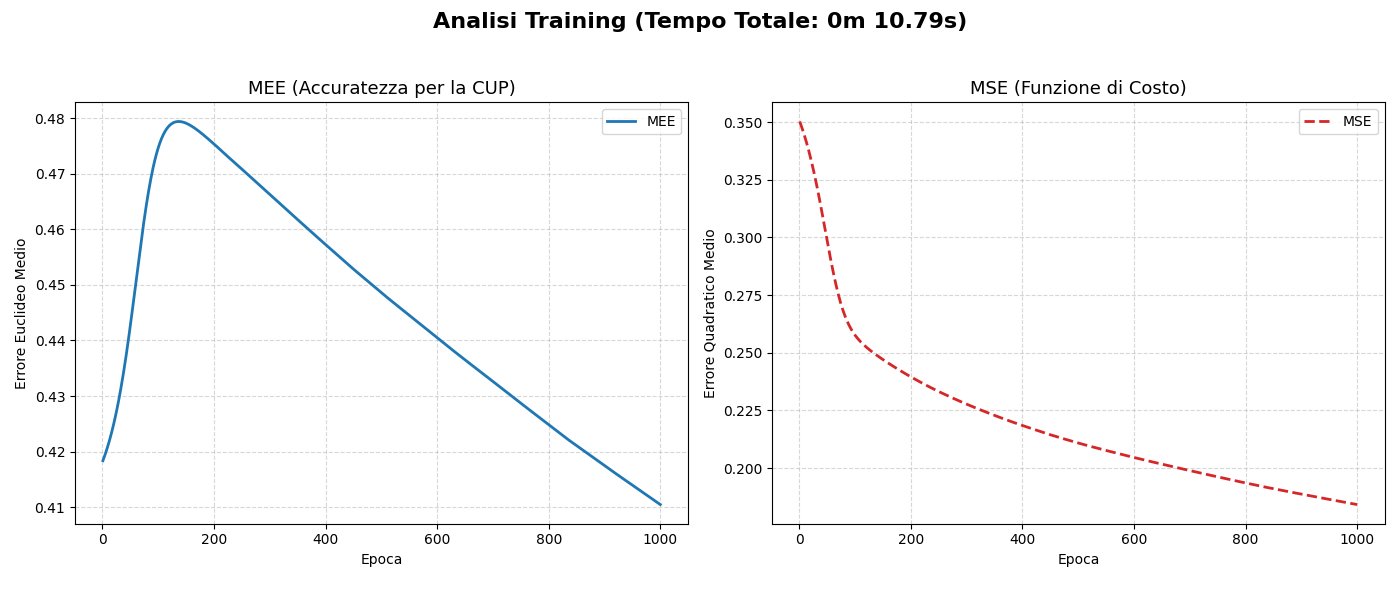
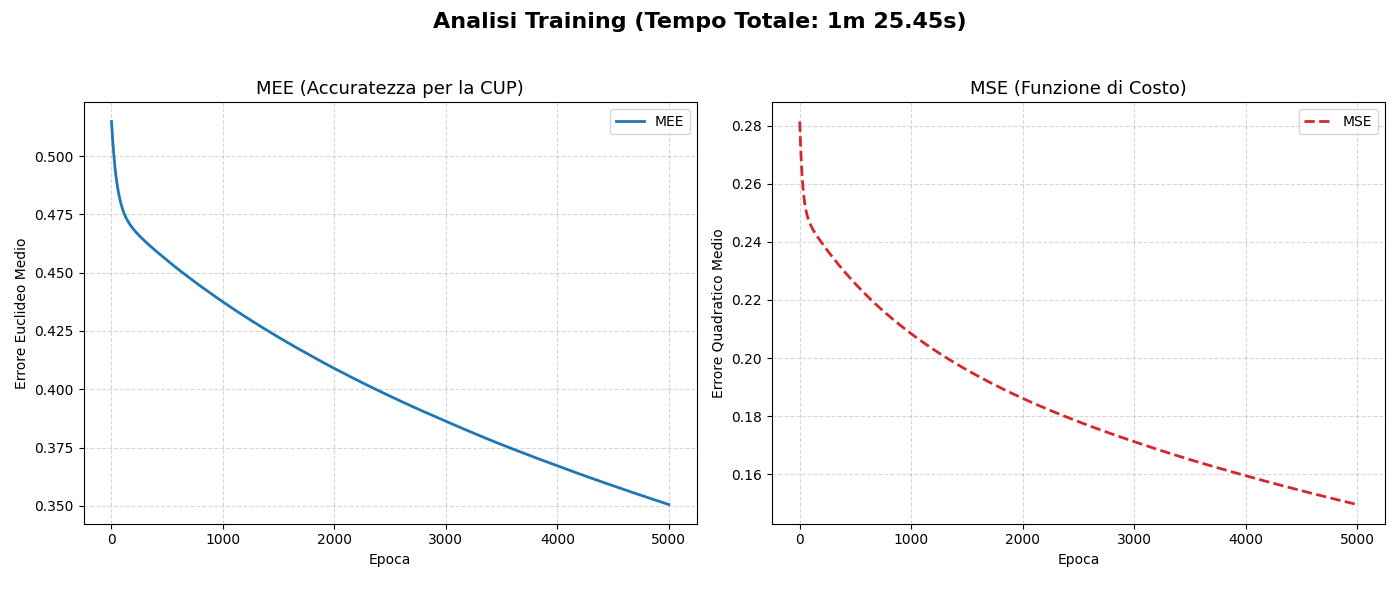
risolte alcune problematiche dell'applicazione al monk

diff --git a/config.py b/config.py
@@ -9,8 +9,8 @@ PATH_DT = "../data/training_data/monks-1.train"
 MONK= True #<- toggle per il monk
 
 # ======== UNITS SIZE ========
-N_HIDDENL1 = 16
-N_HIDDENL2 = 8
+N_HIDDENL1 = 32
+N_HIDDENL2 = 16
 
 if MONK==True:
     N_OUTPUTS = 1
@@ -23,7 +23,7 @@ FUN_ACT = leaky_relu
 
 
 # ====== LEARNING RATE ======= #<- viene usato come valore centrale per la grid search
-LEARNING_RATE =  1e-2   #<- Funziona in batch ma da applicare il criterio di stop sennò scavalca il minimo
+LEARNING_RATE = 2e-3   #<- Funziona in batch ma da applicare il criterio di stop sennò scavalca il minimo
 #LEARNING_RATE = 0.000025
 
 # ========= BATCH ============
@@ -33,14 +33,14 @@ BATCH = True
 # --------------------- STOP CRITERIA:
 
 # ======== N EPOCHS ==========
-EPOCHS = 1000 #usato anche per determinare il numero di epoche per ogni run di grid search, 3% epochs ogni run
+EPOCHS = 5000 #usato anche per determinare il numero di epoche per ogni run di grid search, 3% epochs ogni run
 # ======== Early Stopping oon/off =============
 EARLY_STOPPING = True
 # gradient_norm < EPSILON, quindi il gradiente non cresce abbastanza,
 # serve per lo stopping criteria come limite inferiore, in percentuale
 # ======== EPSILON ==========
 #EPSILON = 0.001
-EPSILON = 0.0000001
+EPSILON = 0.00000001
 
 # Dopo quante epoche in cui non cresce il gradiente mi fermo
 # ======= PATIENCE ==========

diff --git a/scripts/Ensemble_learning.py b/scripts/Ensemble_learning.py
@@ -4,7 +4,7 @@ from src.utils.load_data import load_data, load_monks_data
 from scripts.run_validation import *
 import copy
 best_model = None
-best_accuracy = float("inf")
+best_accuracy = 0.0
 if config.MONK:
     x_i, d = load_monks_data(config.PATH_DT)
 else:
@@ -64,7 +64,7 @@ for seed in range(10):
     w_j1i, w_j2j1, w_kj2, architecture = load_model(weights_filename, architecture_filename)
     correctly_classified, misclassified=validation_monk(validation_set, validation_d, w_j1i, w_j2j1, w_kj2)
     accuracy=correctly_classified/(correctly_classified + misclassified)
-    if accuracy < best_accuracy:
+    if accuracy >best_accuracy:
         best_accuracy = accuracy
         best_model = copy.deepcopy(trainer)
-    print("miglior accuratezza raggiunta:",best_accuracy*100,"%")
+print("miglior accuratezza raggiunta:",best_accuracy*100,"%")
